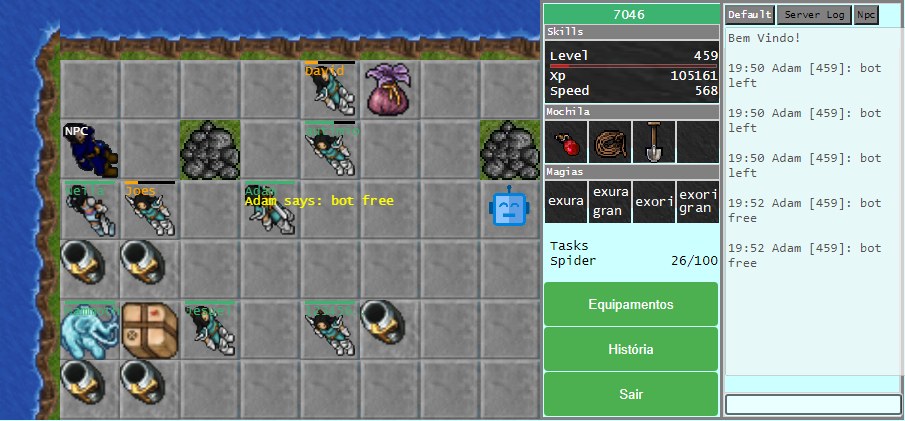
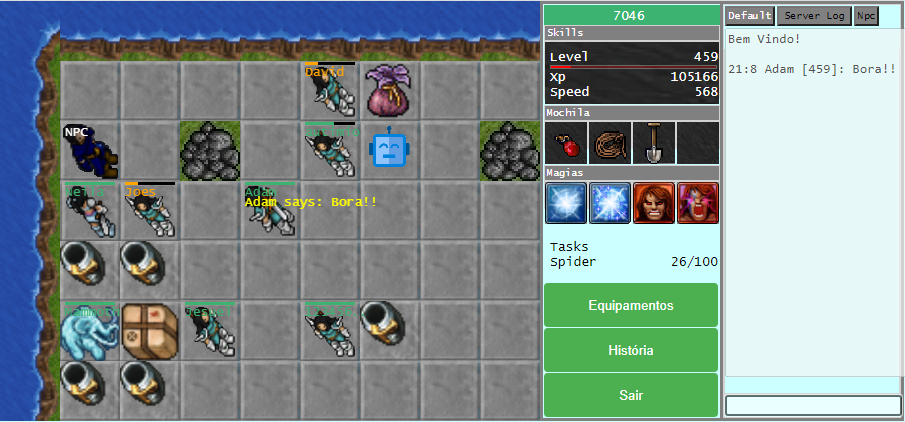
Update v1.19.87
Update magic photo.

diff --git a/game.php b/game.php
@@ -2247,25 +2247,25 @@ var matrizCriaturasVida =
                 strDados = dadosJson.json[1].magias.split(',');
                 if(strDados.length > 0 && parseInt(strDados[0])){
                     exura = true;
-                    document.getElementById('magiaExura').src = 'imagens/imagemMagiaExura.png';
+                    document.getElementById('magiaExura').src = 'imagens/Ultimate_Healing.png';
                     document.getElementById('magiaExura').alt = 'exura';
                     document.getElementById('magiaExura').title = 'exura';
                 }
                 if(strDados.length > 1 && parseInt(strDados[1])){
                     exuraGran = true;
-                    document.getElementById('magiaExuraGran').src = 'imagens/imagemMagiaExuraGran.png';
+                    document.getElementById('magiaExuraGran').src = 'imagens/Restoration.png';
                     document.getElementById('magiaExuraGran').alt = 'exura gran';
                     document.getElementById('magiaExuraGran').title = 'exura gran';
                 }
                 if(strDados.length > 2 && parseInt(strDados[2])){
                     exori = true;
-                    document.getElementById('magiaExori').src = 'imagens/imagemMagiaExori.png';
+                    document.getElementById('magiaExori').src = 'imagens/Berserk.png';
                     document.getElementById('magiaExori').alt = 'exori';
                     document.getElementById('magiaExori').title = 'exori';
                 }
                 if(strDados.length > 3 && parseInt(strDados[3])){
                     exoriGran = true;
-                    document.getElementById('magiaExoriGran').src = 'imagens/imagemMagiaExoriGran.png';
+                    document.getElementById('magiaExoriGran').src = 'imagens/Fierce_Berserk.png';
                     document.getElementById('magiaExoriGran').alt = 'exori gran';
                     document.getElementById('magiaExoriGran').title = 'exori gran';
                 }
@@ -5388,25 +5388,25 @@ var matrizCriaturasVida =
 
                             if(document.getElementById('campoDeEscritaInput').value.toLowerCase() == 'exura'){
                                 exura = true;
-                                document.getElementById('magiaExura').src = 'imagens/imagemMagiaExura.png';
+                                document.getElementById('magiaExura').src = 'imagens/Ultimate_Healing.png';
                                 document.getElementById('magiaExura').alt = 'exura';
                                 document.getElementById('magiaExura').title = 'exura';
                             }
                             else if(document.getElementById('campoDeEscritaInput').value.toLowerCase() == 'exura gran'){
                                 exuraGran = true;
-                                document.getElementById('magiaExuraGran').src = 'imagens/imagemMagiaExuraGran.png';
+                                document.getElementById('magiaExuraGran').src = 'imagens/Restoration.png';
                                 document.getElementById('magiaExuraGran').alt = 'exura gran';
                                 document.getElementById('magiaExuraGran').title = 'exura gran';
                             }
                             else if(document.getElementById('campoDeEscritaInput').value.toLowerCase() == 'exori'){
                                 exori = true;
-                                document.getElementById('magiaExori').src = 'imagens/imagemMagiaExori.png';
+                                document.getElementById('magiaExori').src = 'imagens/Berserk.png';
                                 document.getElementById('magiaExori').alt = 'exori';
                                 document.getElementById('magiaExori').title = 'exori';
                             }
                             else if(document.getElementById('campoDeEscritaInput').value.toLowerCase() == 'exori gran'){
                                 exoriGran = true;
-                                document.getElementById('magiaExoriGran').src = 'imagens/imagemMagiaExoriGran.png';
+                                document.getElementById('magiaExoriGran').src = 'imagens/Fierce_Berserk.png';
                                 document.getElementById('magiaExoriGran').alt = 'exori gran';
                                 document.getElementById('magiaExoriGran').title = 'exori gran';
                             }

diff --git a/index.php b/index.php
@@ -210,7 +210,7 @@
                 document.getElementById("cartaoId").innerHTML = 'Download Android:<br><br><a href="https://drive.google.com/file/d/1dijuEBdXMptRIwxZ2yalLrpwjv2PXa6b/view?usp=sharing">Magic Level v0.2.8</a><br><br><a href="https://drive.google.com/file/d/1AJLxTFEEDtUb0dgdJawerWbmcNdVvJBs/view?usp=sharing">Magic Level v0.1.8</a>';
             }
             function code(){
-                document.getElementById("cartaoId").innerHTML = 'Code Web:<br><br><a href="https://github.com/adameverson/tibia-web">Magic Level v1.19.86</a><br><br>Code Android:<br><br><a href="https://github.com/adameverson/tibia-general">Magic Level v0.2.8</a>';
+                document.getElementById("cartaoId").innerHTML = 'Code Web:<br><br><a href="https://github.com/adameverson/tibia-web">Magic Level v1.19.87</a><br><br>Code Android:<br><br><a href="https://github.com/adameverson/tibia-general">Magic Level v0.2.8</a>';
             }
         </script>
     </head>
@@ -387,5 +387,5 @@
 </audio>
 
 <div style="text-align: center; font-family: 'Lucida Console', 'Courier New', monospace;">
-    ©2021-2022 magiclevel.ml. All rights reserved. v1.19.86
+    ©2021-2022 magiclevel.ml. All rights reserved. v1.19.87
 </div>

diff --git a/README.md b/README.md
@@ -1,6 +1,6 @@
 # tibia-web realizado por Adam Everson
 
-* Game Web semelhante ao Tibia (Magic Level v1.19.86)
+* Game Web semelhante ao Tibia (Magic Level v1.19.87)
 
 * Motivação: realizar um Tibia Web
 
